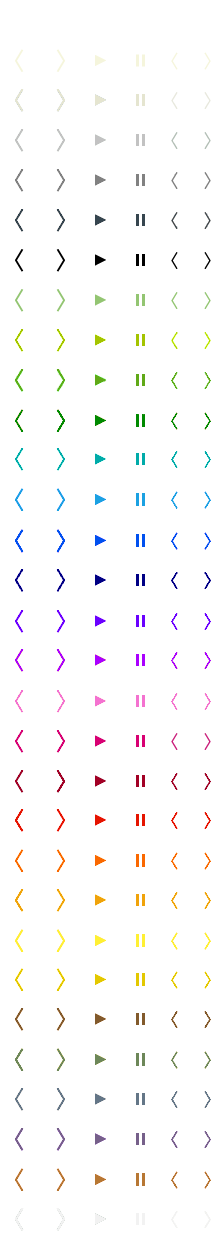
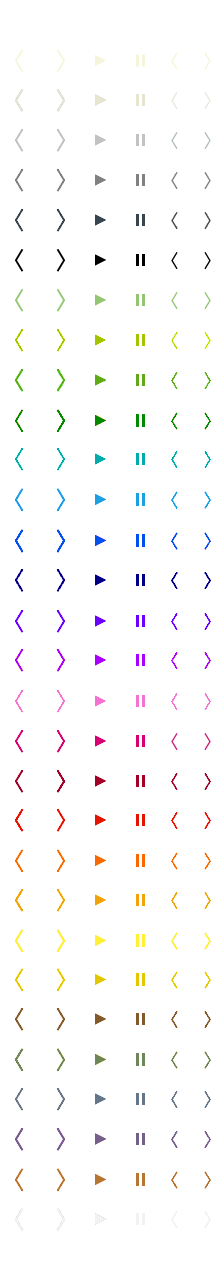
Added Clear skin color + CSS
Added Clear skin color + CSS

diff --git a/upload/catalog/view/theme/default/stylesheet/stylesheet-wide.css b/upload/catalog/view/theme/default/stylesheet/stylesheet-wide.css
@@ -1662,17 +1662,17 @@ ul.box-filter > li ul {
 	float: left;
 	width: 32px;
 	background: rgba(255,255,255,1);
-	border-top: 1px solid #EBEBEB;
-	border-bottom: 2px solid #EBEBEB;
-	border-left: 1px solid #EDEDED;
-	border-right: 1px solid #EDEDED;
+	border-top: 1px solid #E5E5E5;
+	border-bottom: 2px solid #E5E5E5;
+	border-left: 1px solid #E1E1E1;
+	border-right: 1px solid #E1E1E1;
 	-moz-border-radius: 0;
 	-webkit-border-radius: 0;
 	-khtml-border-radius: 0;
 	border-radius: 0;
-	-webkit-box-shadow: inset 0 2px 0 -1px #EDEDED;
-	-moz-box-shadow: inset 0 2px 0 -1px #EDEDED;
-	box-shadow: inset 0 2px 0 -1px #EDEDED;
+	-webkit-box-shadow: inset 0 2px 0 -1px #CCC;
+	-moz-box-shadow: inset 0 2px 0 -1px #CCC;
+	box-shadow: inset 0 2px 0 -1px #CCC;
 	color: #555;
 	text-align: center;
 	padding: 6px;
@@ -1706,7 +1706,7 @@ ul.box-filter > li ul {
 	float: left;
 	height: 32px;
 	width: 24px;
-	background: #EBEBEB url('../image/plus.png') center center no-repeat;
+	background: #E5E5E5 url('../image/plus.png') center center no-repeat;
 	-moz-border-radius: 0 3px 3px 0;
 	-webkit-border-radius: 0 3px 3px 0;
 	-khtml-border-radius: 0 3px 3px 0;
@@ -1714,13 +1714,13 @@ ul.box-filter > li ul {
 	cursor: pointer;
 }
 .add-prod-count:hover {
-	background: #DDD url('../image/plus.png') center center no-repeat;
+	background: #D9D9D9 url('../image/plus.png') center center no-repeat;
 }
 .sub-prod-count {
 	float: left;
 	height: 32px;
 	width: 24px;
-	background: #EBEBEB url('../image/minus.png') center center no-repeat;
+	background: #E5E5E5 url('../image/minus.png') center center no-repeat;
 	-moz-border-radius: 3px 0 0 3px;
 	-webkit-border-radius:  3px 0 0 3px;
 	-khtml-border-radius: 3px 0 0 3px;
@@ -1728,7 +1728,7 @@ ul.box-filter > li ul {
 	cursor: pointer;
 }
 .sub-prod-count:hover {
-	background: #DDD url('../image/minus.png') center center no-repeat;
+	background: #D9D9D9 url('../image/minus.png') center center no-repeat;
 }
 /* Tags */
 .tags {
@@ -2485,8 +2485,14 @@ table.order-options tr td > div.division {
 }
 /* Search */
 .search-bar {
-	background: #F8F8F8;
-	border: 1px solid #DDD;
+	background-color: #F8F8F8;
+	background-image: -webkit-gradient(linear, left top, left bottom, from(#F8F8F8), to(#E1E1E1));
+	background-image: -webkit-linear-gradient(top, #F8F8F8, #E1E1E1);
+	background-image: -moz-linear-gradient(top, #F8F8F8, #E1E1E1);
+	background-image: -ms-linear-gradient(top, #F8F8F8, #E1E1E1);
+	background-image: -o-linear-gradient(top, #F8F8F8, #E1E1E1);
+	background-image: linear-gradient(to bottom, #F8F8F8, #E1E1E1);
+	border: 1px solid #CCC;
 	-webkit-border-radius: 3px;
 	-moz-border-radius: 3px;
 	-khtml-border-radius: 3px;

diff --git a/upload/catalog/view/theme/default/stylesheet/stylesheet.css b/upload/catalog/view/theme/default/stylesheet/stylesheet.css
@@ -1662,17 +1662,17 @@ ul.box-filter > li ul {
 	float: left;
 	width: 32px;
 	background: rgba(255,255,255,1);
-	border-top: 1px solid #EBEBEB;
-	border-bottom: 2px solid #EBEBEB;
-	border-left: 1px solid #EDEDED;
-	border-right: 1px solid #EDEDED;
+	border-top: 1px solid #E5E5E5;
+	border-bottom: 2px solid #E5E5E5;
+	border-left: 1px solid #E1E1E1;
+	border-right: 1px solid #E1E1E1;
 	-moz-border-radius: 0;
 	-webkit-border-radius: 0;
 	-khtml-border-radius: 0;
 	border-radius: 0;
-	-webkit-box-shadow: inset 0 2px 0 -1px #EDEDED;
-	-moz-box-shadow: inset 0 2px 0 -1px #EDEDED;
-	box-shadow: inset 0 2px 0 -1px #EDEDED;
+	-webkit-box-shadow: inset 0 2px 0 -1px #CCC;
+	-moz-box-shadow: inset 0 2px 0 -1px #CCC;
+	box-shadow: inset 0 2px 0 -1px #CCC;
 	color: #555;
 	text-align: center;
 	padding: 6px;
@@ -1706,7 +1706,7 @@ ul.box-filter > li ul {
 	float: left;
 	height: 32px;
 	width: 24px;
-	background: #EBEBEB url('../image/plus.png') center center no-repeat;
+	background: #E5E5E5 url('../image/plus.png') center center no-repeat;
 	-moz-border-radius: 0 3px 3px 0;
 	-webkit-border-radius: 0 3px 3px 0;
 	-khtml-border-radius: 0 3px 3px 0;
@@ -1714,13 +1714,13 @@ ul.box-filter > li ul {
 	cursor: pointer;
 }
 .add-prod-count:hover {
-	background: #DDD url('../image/plus.png') center center no-repeat;
+	background: #D9D9D9 url('../image/plus.png') center center no-repeat;
 }
 .sub-prod-count {
 	float: left;
 	height: 32px;
 	width: 24px;
-	background: #EBEBEB url('../image/minus.png') center center no-repeat;
+	background: #E5E5E5 url('../image/minus.png') center center no-repeat;
 	-moz-border-radius: 3px 0 0 3px;
 	-webkit-border-radius:  3px 0 0 3px;
 	-khtml-border-radius: 3px 0 0 3px;
@@ -1728,7 +1728,7 @@ ul.box-filter > li ul {
 	cursor: pointer;
 }
 .sub-prod-count:hover {
-	background: #DDD url('../image/minus.png') center center no-repeat;
+	background: #D9D9D9 url('../image/minus.png') center center no-repeat;
 }
 /* Tags */
 .tags {
@@ -2485,8 +2485,14 @@ table.order-options tr td > div.division {
 }
 /* Search */
 .search-bar {
-	background: #F8F8F8;
-	border: 1px solid #DDD;
+	background-color: #F8F8F8;
+	background-image: -webkit-gradient(linear, left top, left bottom, from(#F8F8F8), to(#E1E1E1));
+	background-image: -webkit-linear-gradient(top, #F8F8F8, #E1E1E1);
+	background-image: -moz-linear-gradient(top, #F8F8F8, #E1E1E1);
+	background-image: -ms-linear-gradient(top, #F8F8F8, #E1E1E1);
+	background-image: -o-linear-gradient(top, #F8F8F8, #E1E1E1);
+	background-image: linear-gradient(to bottom, #F8F8F8, #E1E1E1);
+	border: 1px solid #CCC;
 	-webkit-border-radius: 3px;
 	-moz-border-radius: 3px;
 	-khtml-border-radius: 3px;

diff --git a/upload/catalog/view/javascript/jquery/camera/css/camera.css b/upload/catalog/view/javascript/jquery/camera/css/camera.css
@@ -1156,3 +1156,25 @@
 .camera_mist_skin .camera_commands > .camera_stop {
 	background-position: -120px -1200px;
 }
+/*CLEAR SKIN*/
+.camera_clear_skin .camera_pag .camera_pag_ul li.cameracurrent > span {
+	background: transparent;
+}
+.camera_clear_skin .camera_prevThumbs div {
+	background-position: -160px -1240px;
+}
+.camera_clear_skin .camera_nextThumbs div {
+	background-position: -190px -1240px;
+}
+.camera_clear_skin .camera_prev > span {
+	background-position: 0 -1240px;
+}
+.camera_clear_skin .camera_next > span {
+	background-position: -40px -1240px;
+}
+.camera_clear_skin .camera_commands > .camera_play {
+	background-position: -80px -1240px;
+}
+.camera_clear_skin .camera_commands > .camera_stop {
+	background-position: -120px -1240px;
+}

diff --git a/upload/catalog/view/javascript/jquery/slick/slick.css b/upload/catalog/view/javascript/jquery/slick/slick.css
@@ -444,3 +444,10 @@
 .slick_mist_skin .slick-next > span {
 	background-position: -40px -1200px;
 }
+/*CLEAR SKIN*/
+.slick_clear_skin .slick-prev > span {
+	background-position: 0 -1240px;
+}
+.slick_clear_skin .slick-next > span {
+	background-position: -40px -1240px;
+}

diff --git a/upload/catalog/view/theme/default/stylesheet/stylesheet-modifiers.css b/upload/catalog/view/theme/default/stylesheet/stylesheet-modifiers.css
@@ -318,3 +318,8 @@
 	background: #F2F2F2;
 	color: #222;
 }
+/* Clear */
+.clear-skin {
+	background: transparent;
+	color: #222;
+}

diff --git a/upload/catalog/controller/module/menu_horizontal.php b/upload/catalog/controller/module/menu_horizontal.php
@@ -25,7 +25,7 @@ class ControllerModuleMenuHorizontal extends Controller {
 		if ($menu_theme == 'custom') {
 			$this->document->addStyle('catalog/view/theme/' . $template . '/stylesheet/menu-' . $menu_direction . '.css');
 
-			if ($mod_color == 'white-skin' || $mod_color == 'beige-skin' || $mod_color == 'ash-skin' || $mod_color == 'silver-skin' || $mod_color == 'citrus-skin' || $mod_color == 'yellow-skin' || $mod_color == 'mist-skin') {
+			if ($mod_color == 'white-skin' || $mod_color == 'beige-skin' || $mod_color == 'ash-skin' || $mod_color == 'silver-skin' || $mod_color == 'citrus-skin' || $mod_color == 'yellow-skin' || $mod_color == 'mist-skin' || $mod_color == 'clear-skin') {
 				$this->document->addStyle('catalog/view/theme/' . $template . '/stylesheet/menu-dark.css');
 				$menu_theme = 'light';
 			} else {

diff --git a/upload/catalog/controller/common/footer.php b/upload/catalog/controller/common/footer.php
@@ -79,7 +79,7 @@ class ControllerCommonFooter extends Controller {
 		if ($footer_theme == 'custom') {
 			$this->document->addStyle('catalog/view/theme/' . $template . '/stylesheet/footer-custom.css');
 
-			if ($mod_color == 'white-skin' || $mod_color == 'beige-skin' || $mod_color == 'ash-skin' || $mod_color == 'silver-skin' || $mod_color == 'citrus-skin' || $mod_color == 'yellow-skin' || $mod_color == 'mist-skin') {
+			if ($mod_color == 'white-skin' || $mod_color == 'beige-skin' || $mod_color == 'ash-skin' || $mod_color == 'silver-skin' || $mod_color == 'citrus-skin' || $mod_color == 'yellow-skin' || $mod_color == 'mist-skin' || $mod_color == 'clear-skin') {
 				$footer_class = 'footer-dark';
 			} else {
 				$footer_class = 'footer-light';

diff --git a/upload/admin/model/setting/setting.php b/upload/admin/model/setting/setting.php
@@ -75,6 +75,7 @@ class ModelSettingSetting extends Model {
 		$skins[] = array('skin' => 'mauve','color' => '#76608A','title' => 'Mauve');
 		$skins[] = array('skin' => 'sienna','color' => '#B77733','title' => 'Sienna');
 		$skins[] = array('skin' => 'mist','color' => '#F2F2F2','title' => 'Mist');
+		$skins[] = array('skin' => 'clear','color' => 'transparent','title' => 'Clear');
 
 		return $skins;
 	}
